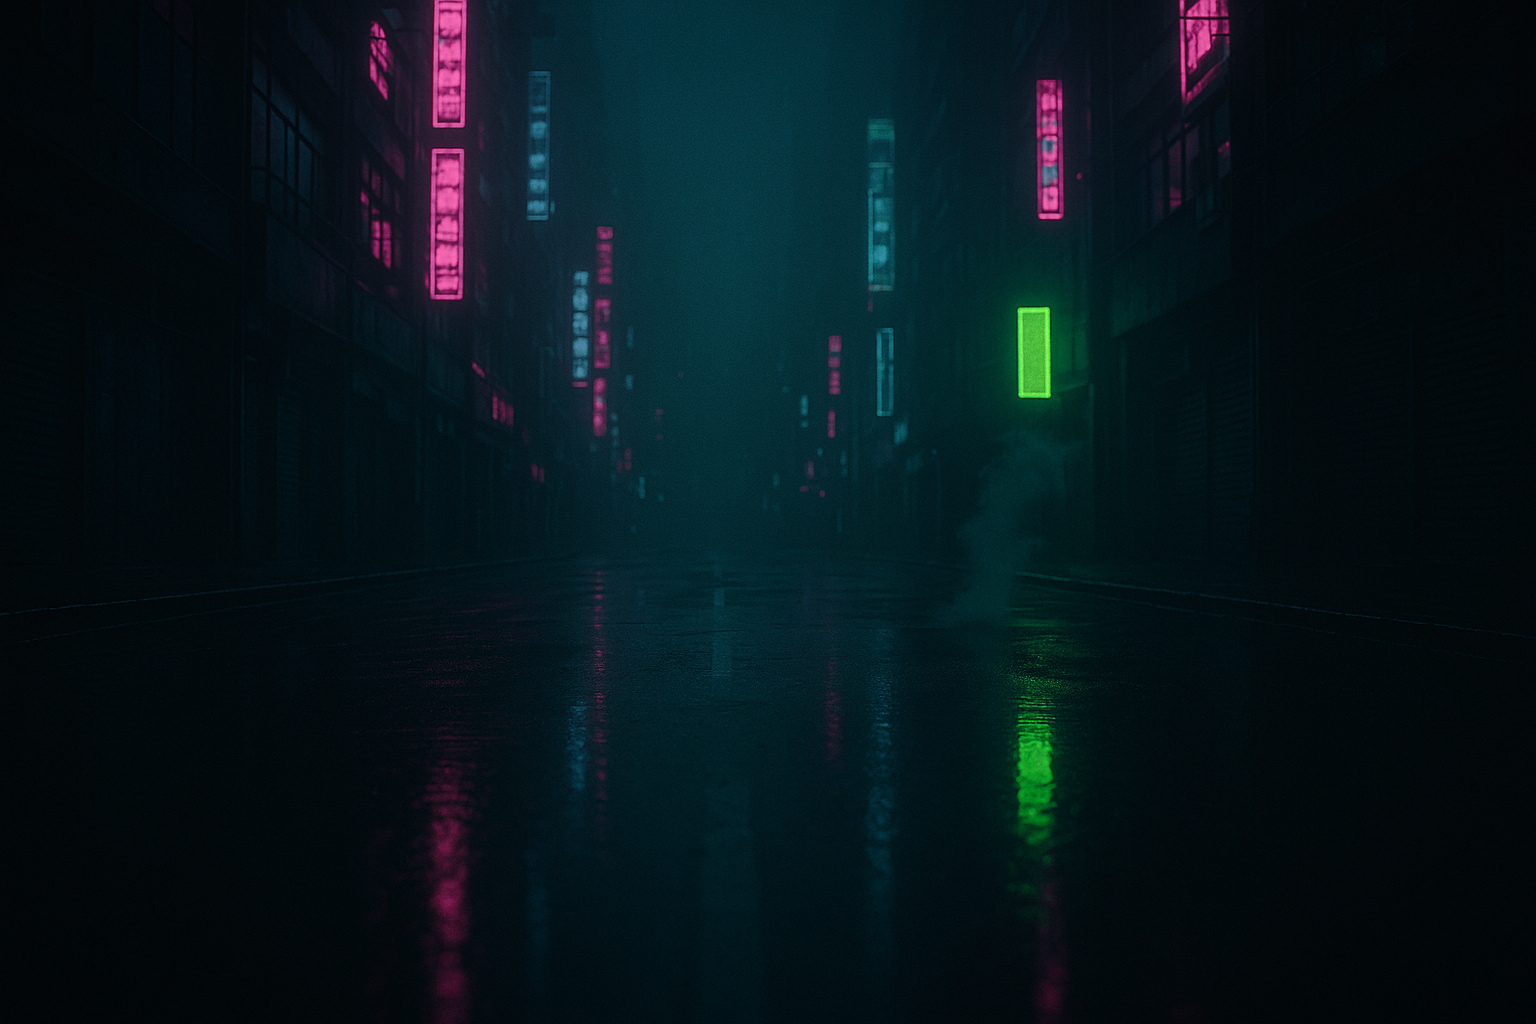
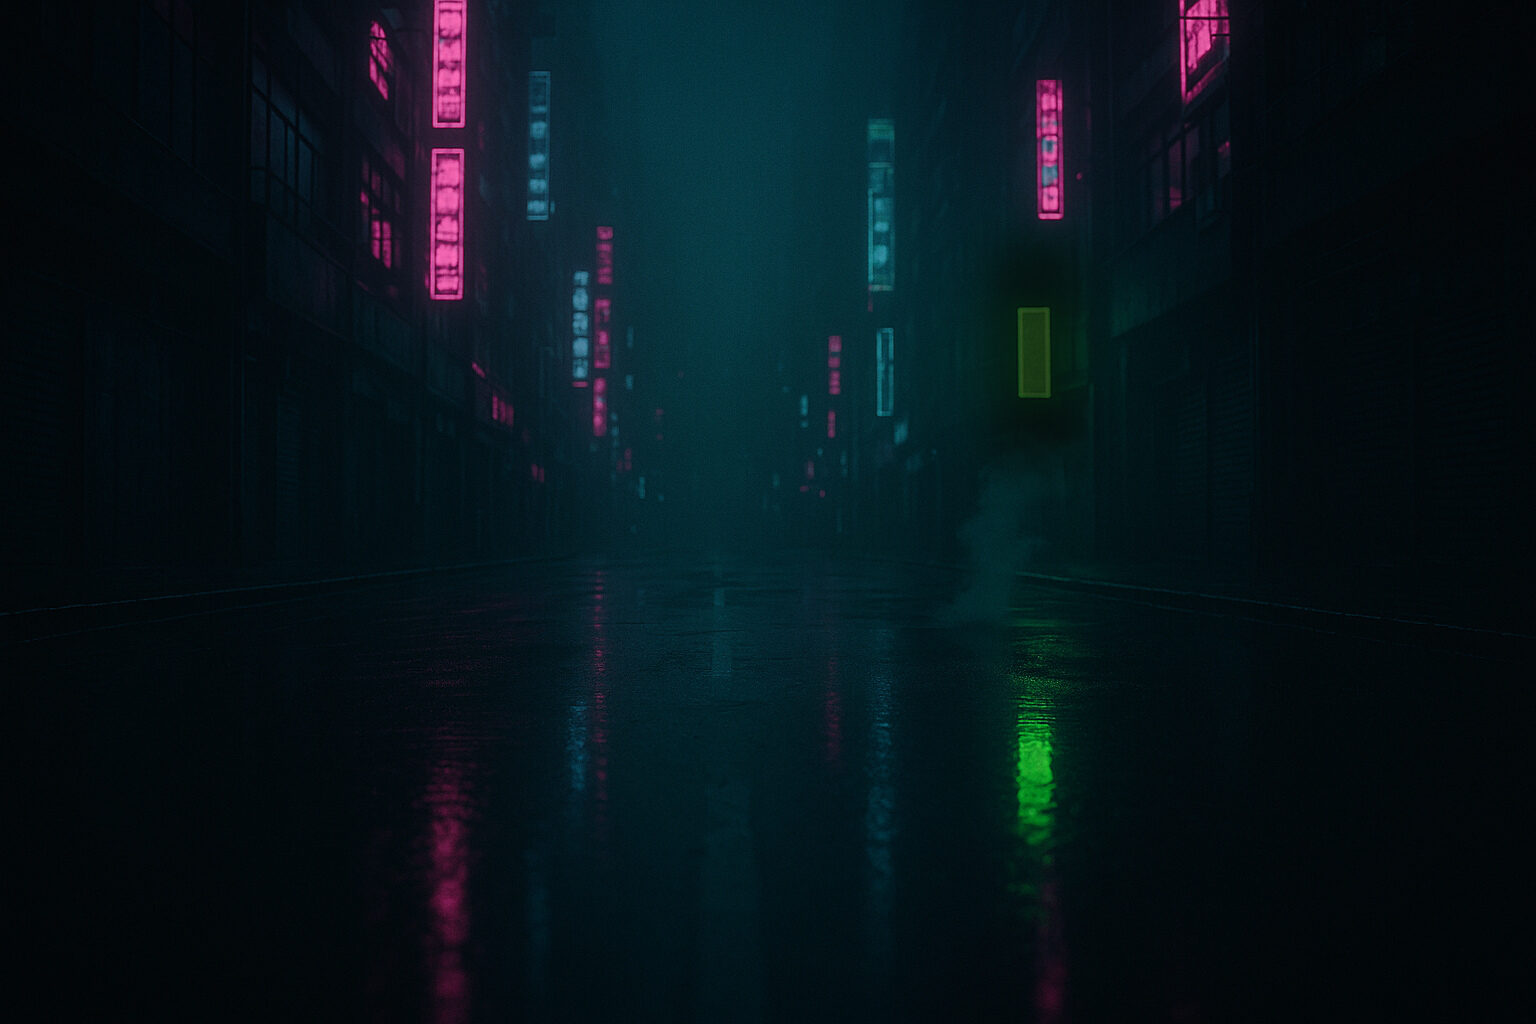
feat(presentations): unique futuristic scene behind every content slide
Every content slide across all five decks now carries its own scene,
uniformly treated in shared CSS: the scene-atrium-grade dark scrim
plus the cover's subtle lime glow at the foot of the frame. 27 new
scenes generated in the house palette; the previously unused
cyber/scene imagery is placed (street sign dimmed and the neon-tower
shot desaturated where they fought the foreground). Statement slides
(dark-inner) drop their opaque charcoal so the scene shows through,
and the deck runtime's reveal/clash selectors cover the new
lifecycle and human-row elements.

Claude-Session: https://claude.ai/code/session_01UzJ7i2xhbqKdiKk7eGYZvx

Changed region(s): [[0.625, 0.25, 0.7188, 0.4375]]

diff --git a/public/presentations/company-overview.html b/public/presentations/company-overview.html
@@ -91,7 +91,7 @@
         </section>
 
         <!-- Slide 2: About KnowAll AI -->
-        <section role="region" aria-label="Slide 2 of 22: About KnowAll AI">
+        <section class="scene" style="--scene: url('images/cyber-bridge-bluehour-landscape.jpg')" role="region" aria-label="Slide 2 of 22: About KnowAll AI">
           <div class="band">
             <div>
               <h2>About KnowAll AI</h2>
@@ -150,7 +150,7 @@
         </section>
 
         <!-- Slide 3: Who you're working with — humans and the agents that augment them -->
-        <section role="region" aria-label="Slide 3 of 22: Who you're working with">
+        <section class="scene" style="--scene: url('images/scene-team-studio.jpg')" role="region" aria-label="Slide 3 of 22: Who you're working with">
           <div class="band">
             <div>
               <h2>Who you&rsquo;re working with</h2>
@@ -318,7 +318,7 @@
         </section>
 
         <!-- Slide 4: Mission and vision -->
-        <section role="region" aria-label="Slide 4 of 22: Mission and vision">
+        <section class="scene" style="--scene: url('images/cyber-rooftop-skyline-landscape.jpg')" role="region" aria-label="Slide 4 of 22: Mission and vision">
           <div class="band">
             <div>
               <h2>Mission &amp; vision</h2>
@@ -380,7 +380,7 @@
         </section>
 
         <!-- Slide 6: Our customers -->
-        <section role="region" aria-label="Slide 6 of 22: Our customers">
+        <section class="scene" style="--scene: url('images/cyber-street-empty-landscape.jpg')" role="region" aria-label="Slide 6 of 22: Our customers">
           <div class="band">
             <div>
               <h2>Our customers</h2>
@@ -449,7 +449,7 @@
         </section>
 
         <!-- Slide 7: Service offerings -->
-        <section role="region" aria-label="Slide 7 of 22: Service offerings">
+        <section class="scene" style="--scene: url('images/scene-five-doors.jpg')" role="region" aria-label="Slide 7 of 22: Service offerings">
           <div class="band">
             <div>
               <h2>Service offerings</h2>
@@ -511,7 +511,7 @@
         </section>
 
         <!-- Slide 8: Service — Discovery Day -->
-        <section role="region" aria-label="Slide 8 of 22: Service — Discovery Day">
+        <section class="scene" style="--scene: url('images/scene-dawn-deck.jpg')" role="region" aria-label="Slide 8 of 22: Service — Discovery Day">
           <div class="band">
             <div>
               <h2>Service &middot; Discovery Day</h2>
@@ -592,7 +592,7 @@
         </section>
 
         <!-- Slide 9: Service — Proto-Sprints -->
-        <section role="region" aria-label="Slide 9 of 22: Service — Proto-Sprints">
+        <section class="scene" style="--scene: url('images/cyber-rooftop-empty-landscape.jpg')" role="region" aria-label="Slide 9 of 22: Service — Proto-Sprints">
           <div class="band">
             <div>
               <h2>Service &middot; Proto-Sprints</h2>
@@ -666,7 +666,7 @@
         </section>
 
         <!-- Slide 10: Service — Projects -->
-        <section role="region" aria-label="Slide 10 of 22: Service — Projects">
+        <section class="scene" style="--scene: url('images/cyber-tower-base-scale-landscape.jpg')" role="region" aria-label="Slide 10 of 22: Service — Projects">
           <div class="band">
             <div>
               <h2>Service &middot; Projects</h2>
@@ -755,7 +755,7 @@
         </section>
 
         <!-- Slide 11: DevOps lifecycle -->
-        <section role="region" aria-label="Slide 11 of 22: DevOps project lifecycle">
+        <section class="scene" style="--scene: url('images/scene-downpour.jpg')" role="region" aria-label="Slide 11 of 22: DevOps project lifecycle">
           <div class="dark-inner" style="padding: 96px 96px calc(40px + var(--ctl-band)); gap: 48px">
             <div>
               <p class="kicker">A continuous Dev &amp; Ops loop</p>
@@ -809,7 +809,7 @@
         </section>
 
         <!-- Slide 12: Deliverables — what, how and why -->
-        <section role="region" aria-label="Slide 12 of 22: Deliverables — what, how and why">
+        <section class="scene" style="--scene: url('images/scene-datacenter.jpg')" role="region" aria-label="Slide 12 of 22: Deliverables — what, how and why">
           <div class="band">
             <div>
               <h2>Deliverables</h2>
@@ -865,7 +865,7 @@
         </section>
 
         <!-- Slide 13: Service — Blended Squads -->
-        <section role="region" aria-label="Slide 13 of 22: Service — Blended Squads">
+        <section class="scene" style="--scene: url('images/scene-walkways.jpg')" role="region" aria-label="Slide 13 of 22: Service — Blended Squads">
           <div class="band">
             <div>
               <h2>Service &middot; Blended Squads</h2>
@@ -935,7 +935,7 @@
         </section>
 
         <!-- Slide 14: Service — Continuous Improvement Service Plans -->
-        <section
+        <section class="scene" style="--scene: url('images/scene-observatory.jpg')"
           role="region"
           aria-label="Slide 14 of 22: Service — Continuous Improvement Service Plans"
         >
@@ -1011,7 +1011,7 @@
         </section>
 
         <!-- Slide 15: Case study — invoice automation -->
-        <section role="region" aria-label="Slide 15 of 22: Case study — invoice automation">
+        <section class="scene" style="--scene: url('images/scene-rain-room.jpg')" role="region" aria-label="Slide 15 of 22: Case study — invoice automation">
           <div class="band">
             <div>
               <h2>Case study &middot; Invoice automation</h2>
@@ -1096,7 +1096,7 @@
         </section>
 
         <!-- Slide 16: Case study — health and safety inspection -->
-        <section
+        <section class="scene" style="--scene: url('images/scene-catwalk.jpg')"
           role="region"
           aria-label="Slide 16 of 22: Case study — health and safety inspection"
         >
@@ -1186,7 +1186,7 @@
         </section>
 
         <!-- Slide 17: Proof -->
-        <section role="region" aria-label="Slide 17 of 22: Proof — who we have done this for">
+        <section class="scene" style="--scene: url('images/scene-pillars.jpg')" role="region" aria-label="Slide 17 of 22: Proof — who we have done this for">
           <div class="band">
             <div>
               <h2>Proof</h2>
@@ -1246,7 +1246,7 @@
         </section>
 
         <!-- Slide 18: T-Minus-15 -->
-        <section role="region" aria-label="Slide 18 of 22: The T-Minus-15 methodology">
+        <section class="scene" style="--scene: url('images/cyber-high-vantage-landscape.jpg')" role="region" aria-label="Slide 18 of 22: The T-Minus-15 methodology">
           <div class="dark-inner" style="padding: 108px 96px calc(52px + var(--ctl-band))">
             <div style="display: flex; align-items: center; gap: 56px">
               <div style="flex: 1">
@@ -1284,7 +1284,7 @@
         </section>
 
         <!-- Slide 19: Our products -->
-        <section role="region" aria-label="Slide 19 of 22: Our products and commercial agents">
+        <section class="scene" style="--scene: url('images/scene-gallery.jpg')" role="region" aria-label="Slide 19 of 22: Our products and commercial agents">
           <div class="band">
             <div>
               <h2>Our products</h2>
@@ -1364,7 +1364,7 @@
         </section>
 
         <!-- Slide 20: Zaplie — rewards and incentives -->
-        <section role="region" aria-label="Slide 20 of 22: Zaplie — rewards and incentives">
+        <section class="scene" style="--scene: url('images/scene-particles.jpg')" role="region" aria-label="Slide 20 of 22: Zaplie — rewards and incentives">
           <div class="band">
             <div>
               <h2>Zaplie &middot; Rewards &amp; incentives</h2>
@@ -1429,7 +1429,7 @@
         </section>
 
         <!-- Slide 21: Build — AI agents and Microsoft Copilots -->
-        <section
+        <section class="scene" style="--scene: url('images/scene-serverhall.jpg')"
           role="region"
           aria-label="Slide 21 of 22: Build — AI agents and Microsoft Copilots"
         >

diff --git a/public/presentations/agentic-delivery.html b/public/presentations/agentic-delivery.html
@@ -61,7 +61,7 @@
         </section>
 
         <!-- Slide 2: From requirements to production -->
-        <section role="region" aria-label="Slide 2 of 7: From requirements to production">
+        <section class="scene" style="--scene: url('images/scene-highway.jpg')" role="region" aria-label="Slide 2 of 7: From requirements to production">
           <div class="band">
             <div>
               <h2>Two stages, one journey</h2>
@@ -108,7 +108,7 @@
         </section>
 
         <!-- Slide 3: Stage 1 — the Proto-Sprint -->
-        <section role="region" aria-label="Slide 3 of 7: Stage 1 — the Proto-Sprint">
+        <section class="scene" style="--scene: url('images/scene-tunnel.jpg')" role="region" aria-label="Slide 3 of 7: Stage 1 — the Proto-Sprint">
           <div class="band">
             <div>
               <h2>Stage 1 &middot; Proto-Sprint</h2>
@@ -185,7 +185,7 @@
         </section>
 
         <!-- Slide 4: Stage 2 — Projects -->
-        <section role="region" aria-label="Slide 4 of 7: Stage 2 — Projects">
+        <section class="scene" style="--scene: url('images/scene-towers.jpg')" role="region" aria-label="Slide 4 of 7: Stage 2 — Projects">
           <div class="band">
             <div>
               <h2>Stage 2 &middot; Projects</h2>
@@ -269,7 +269,7 @@
         </section>
 
         <!-- Slide 5: The T-Minus-15 lifecycle -->
-        <section role="region" aria-label="Slide 5 of 7: The T-Minus-15 lifecycle">
+        <section class="scene" style="--scene: url('images/scene-interchange.jpg')" role="region" aria-label="Slide 5 of 7: The T-Minus-15 lifecycle">
           <div class="dark-inner" style="padding: 96px 96px calc(40px + var(--ctl-band)); gap: 48px">
             <div>
               <p class="kicker">Our methodology &middot; a continuous Dev &amp; Ops loop</p>
@@ -323,7 +323,7 @@
         </section>
 
         <!-- Slide 6: Built on T-Minus-15 -->
-        <section role="region" aria-label="Slide 6 of 7: Built on T-Minus-15">
+        <section class="scene" style="--scene: url('images/scene-archive.jpg')" role="region" aria-label="Slide 6 of 7: Built on T-Minus-15">
           <div class="band">
             <div>
               <h2>Built on T-Minus-15</h2>

diff --git a/public/presentations/agentic-ai-solutions.html b/public/presentations/agentic-ai-solutions.html
@@ -460,7 +460,7 @@
         </section>
 
         <!-- Slide 4: Meet Preppie -->
-        <section
+        <section class="scene" style="--scene: url('images/scene-analyst-desk.jpg')"
           role="region"
           aria-label="Slide 4 of 18: Meet Preppie, your AI requirements analyst"
         >
@@ -536,7 +536,7 @@
         </section>
 
         <!-- Slide 5: Meet the team -->
-        <section role="region" aria-label="Slide 5 of 18: Meet the agent team">
+        <section class="scene" style="--scene: url('images/scene-studio-rim.jpg')" role="region" aria-label="Slide 5 of 18: Meet the agent team">
           <div class="band">
             <div>
               <h2>Meet the team</h2>
@@ -747,7 +747,7 @@
         </section>
 
         <!-- Slide 7: T-Minus-15 -->
-        <section role="region" aria-label="Slide 7 of 18: The T-Minus-15 methodology">
+        <section class="scene" style="--scene: url('images/hero-corridor-of-light-landscape.jpg')" role="region" aria-label="Slide 7 of 18: The T-Minus-15 methodology">
           <div class="dark-inner" style="padding: 108px 96px calc(52px + var(--ctl-band))">
             <div style="display: flex; align-items: center; gap: 56px">
               <div style="flex: 1">
@@ -909,7 +909,7 @@
         </section>
 
         <!-- Slide 9: Agent Memory (Neo4j) -->
-        <section
+        <section class="scene" style="--scene: url('images/scene-graph-sky.jpg')"
           role="region"
           aria-label="Slide 9 of 18: Memory that consolidates while they sleep"
         >
@@ -1388,7 +1388,7 @@
         </section>
 
         <!-- Slide 16: Proof -->
-        <section role="region" aria-label="Slide 16 of 18: Proof — who we have done this for">
+        <section class="scene" style="--scene: url('images/scene-great-hall.jpg')" role="region" aria-label="Slide 16 of 18: Proof — who we have done this for">
           <div class="band">
             <div>
               <h2>Proof</h2>

diff --git a/public/presentations/ai-discovery.html b/public/presentations/ai-discovery.html
@@ -60,7 +60,7 @@
         </section>
 
         <!-- Slide 2: What it is -->
-        <section role="region" aria-label="Slide 2 of 6: What it is">
+        <section class="scene" style="--scene: url('images/scene-dawn-mist.jpg')" role="region" aria-label="Slide 2 of 6: What it is">
           <div class="band">
             <div>
               <h2>What it is</h2>
@@ -117,7 +117,7 @@
         </section>
 
         <!-- Slide 3: How it works -->
-        <section role="region" aria-label="Slide 3 of 6: How it works">
+        <section class="scene" style="--scene: url('images/scene-beacons.jpg')" role="region" aria-label="Slide 3 of 6: How it works">
           <div class="dark-inner" style="padding: 108px 96px calc(52px + var(--ctl-band))">
             <div>
               <p class="kicker">A single, structured day</p>
@@ -169,7 +169,7 @@
         </section>
 
         <!-- Slide 4: Value versus effort -->
-        <section role="region" aria-label="Slide 4 of 6: Value versus effort">
+        <section class="scene" style="--scene: url('images/scene-plaza.jpg')" role="region" aria-label="Slide 4 of 6: Value versus effort">
           <div class="band">
             <div>
               <h2>Value vs. effort</h2>
@@ -232,7 +232,7 @@
         </section>
 
         <!-- Slide 5: The AI Discovery at a glance -->
-        <section role="region" aria-label="Slide 5 of 6: The AI Discovery at a glance">
+        <section class="scene" style="--scene: url('images/scene-summit.jpg')" role="region" aria-label="Slide 5 of 6: The AI Discovery at a glance">
           <div class="band">
             <div>
               <h2>At a glance</h2>

diff --git a/public/presentations/cisp.html b/public/presentations/cisp.html
@@ -63,7 +63,7 @@
         </section>
 
         <!-- Slide 2: What it is -->
-        <section role="region" aria-label="Slide 2 of 6: What it is">
+        <section class="scene" style="--scene: url('images/scene-walkway.jpg')" role="region" aria-label="Slide 2 of 6: What it is">
           <div class="band">
             <div>
               <h2>What it is</h2>
@@ -120,7 +120,7 @@
         </section>
 
         <!-- Slide 3: How it works -->
-        <section role="region" aria-label="Slide 3 of 6: How it works">
+        <section class="scene" style="--scene: url('images/scene-blocks.jpg')" role="region" aria-label="Slide 3 of 6: How it works">
           <div class="band">
             <div>
               <h2>How it works</h2>
@@ -174,7 +174,7 @@
         </section>
 
         <!-- Slide 4: Service tiers -->
-        <section role="region" aria-label="Slide 4 of 6: Service tiers">
+        <section class="scene" style="--scene: url('images/scene-terraces.jpg')" role="region" aria-label="Slide 4 of 6: Service tiers">
           <div class="band">
             <div>
               <h2>Service tiers</h2>
@@ -237,7 +237,7 @@
         </section>
 
         <!-- Slide 5: Why a CISP -->
-        <section role="region" aria-label="Slide 5 of 6: Why a CISP">
+        <section class="scene" style="--scene: url('images/scene-greenhouse.jpg')" role="region" aria-label="Slide 5 of 6: Why a CISP">
           <div class="band">
             <div>
               <h2>Why a CISP?</h2>

diff --git a/public/presentations/knowall-deck.js b/public/presentations/knowall-deck.js
@@ -25,11 +25,12 @@ deckSlides.slice(2, -1).forEach((slide) => {
     ],
     ['.cards-5 > .stage', 'fade-up'],
     ['.checks > .check', 'fade-up'],
+    ['.human-row > .human', 'fade-up'],
     ['.agent-row > .agent', 'fade-up'],
     ['.timeline > .timeline-point', 'fade-up'],
     ['.kpi-row > .kpi', 'fade-in'],
     ['.pill-row > .pill', 'fade-in'],
-    ['.loop-stage', 'fade-in'],
+    ['.lifecycle-stages > .ls', 'fade-in'],
   ];
   deckSlides.forEach((section, index) => {
     let seqIndex = 0;
@@ -59,7 +60,7 @@ deckSlides.slice(2, -1).forEach((slide) => {
 // slides that need the room. Measured, not hard-coded, so it stays true
 // if the copy changes.
 const CONTENT_SELECTOR =
-  '.card, .check, .kpi, .pill, .stage, .agent, .timeline-point, .loop-stage,' +
+  '.card, .check, .kpi, .pill, .stage, .agent, .human, .timeline-point, .ls,' +
   ' h1, h2, h3, h4, p, img, svg, .quote, .quote-mark';
 function guardFloatingControls(slide) {
   if (!slide) return;
